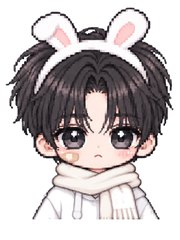
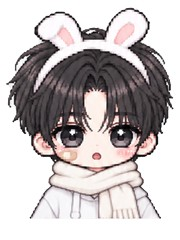
Our Home: new 후후 expressions for series 1,6,7,8,9 cards
Claude-Session: https://claude.ai/code/session_01QjjwagBKA79UbnwwZK1srt

diff --git a/our-home/index.html b/our-home/index.html
@@ -174,7 +174,7 @@ function play(n) {
   const s3 = Math.ceil(pairs * 1.5) + 1, s2 = pairs * 2 + 1, limit = Math.ceil(pairs * 2.5) + 2;
   const cols = pairs === 2 ? 2 : pairs === 3 ? 3 : pairs === 5 ? 5 : 4;
   const pick = SERIES.filter(x => typeof x === 'number').sort(() => Math.random() - .5).concat(SERIES.filter(x => typeof x !== 'number')).slice(0, pairs);
-  const deck = pick.flatMap(k => typeof k === 'number' ? [[k, `<img src="img/s${k}h.jpg" alt="">`], [k, `<img src="img/s${k}m.jpg" alt="">`]] : [[k, k], [k, k]]).sort(() => Math.random() - .5);
+  const deck = pick.flatMap(k => typeof k === 'number' ? [[k, `<img src="img/s${k}h.jpg?v=2" alt="">`], [k, `<img src="img/s${k}m.jpg" alt="">`]] : [[k, k], [k, k]]).sort(() => Math.random() - .5);
   let open = [], done = 0, moves = 0, lock = true;
   const head = () => info(`${icon} ${L(ko, zh)}`, `${moves}/${limit}`);
   head();
@@ -284,7 +284,7 @@ $('room').innerHTML =
   + pg([[4.0, 0, 4.6], [6.0, 0, 4.6], [6.0, 0, 2.5], [4.0, 0, 2.5]], '#bfe3f7', 'stroke-width="3" stroke="#fff"') + pg([[4.0, 0, 4.6], [6.0, 0, 4.6], [6.0, 0, 2.5], [4.0, 0, 2.5]], 'none') + pg([[5.0, 0, 4.6], [5.0, 0, 2.5]], 'none') + pg([[4.0, 0, 3.55], [6.0, 0, 3.55]], 'none')
   + ITEMS.map(([id, g]) => `<g class="f" data-f="${id}" hidden>${g}</g>`).join('');
 // 先在背景把牌和人物的圖載好，進關卡時就不用等
-['img/hu.png', 'img/mi.png'].concat(SERIES.flatMap(k => [`img/s${k}h.jpg`, `img/s${k}m.jpg`])).forEach(u => { new Image().src = u; });
+['img/hu.png', 'img/mi.png'].concat(SERIES.flatMap(k => [`img/s${k}h.jpg?v=2`, `img/s${k}m.jpg`])).forEach(u => { new Image().src = u; });
 renderRoom();
 if (seenIntro) home(); else { info(L('우리 집', '我們的家'), ''); say(TALK.intro, () => { seenIntro = true; save(); home(); }); }
 
